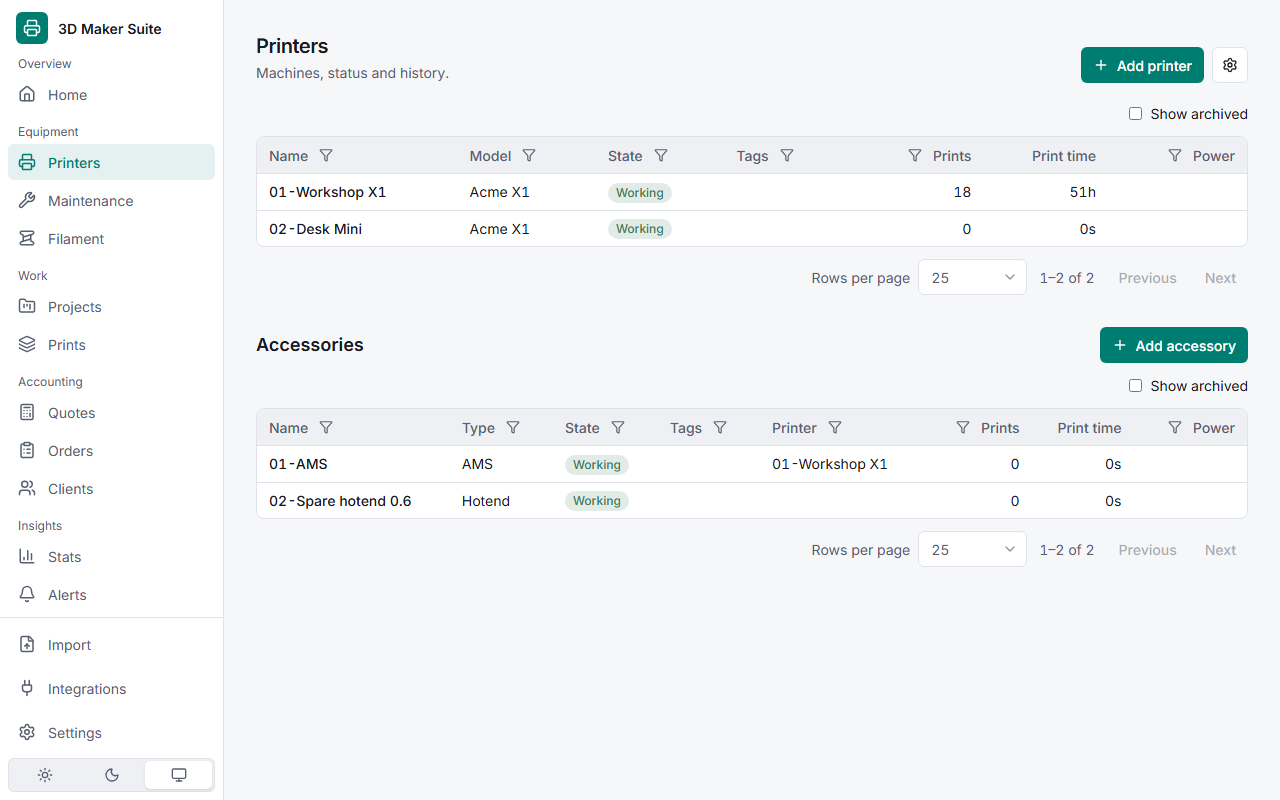
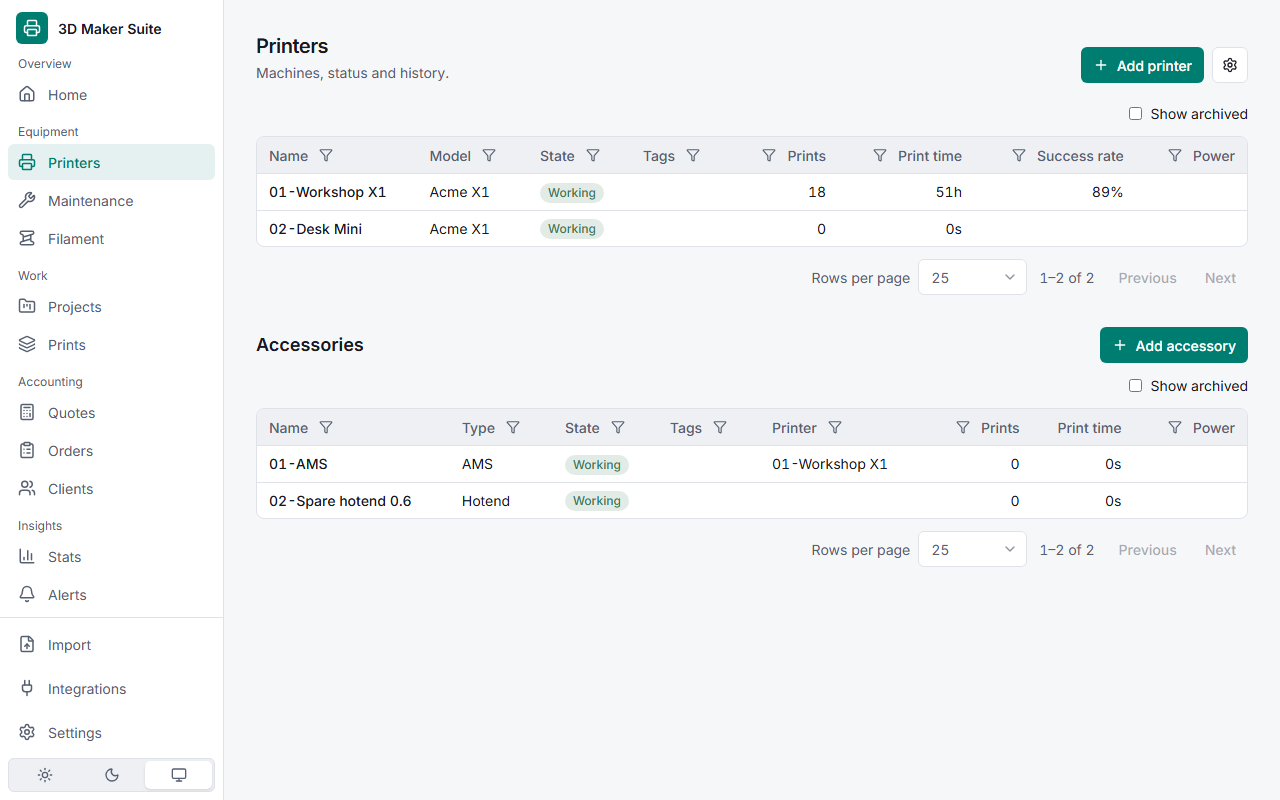
docs(release): 3.0.0-alpha.1 changelog, README, screenshots and version

diff --git a/README.md b/README.md
@@ -10,7 +10,7 @@ A local-first manager for your 3D printing: printers, accessories, maintenance, 
 - **Accessories**: install on a printer with dates, usage, photos, tags, maintenance and cost
 - **Maintenance**: reusable tasks for printers and accessories, due by hours, prints or days
 - **Filament**: brands, materials, profiles, spools with numbers and colour names, remaining grams, low-spool alerts
-- **Projects**: 3MF models with plates, thumbnails, tags, collections, filament colours, files you can upload, move and remove in folders, a chosen 3D preview file, a markdown description (linked `.md` or `.txt` file, with an editor), and slicing per plate (Bambu Studio) for an estimated cost of one complete print
+- **Projects**: 3MF models with plates, thumbnails, tags, collections, filament colours, files you can upload, move and remove in folders, a chosen 3D preview file, an image gallery with a cover, a markdown description (linked `.md` or `.txt` file, with an editor), and slicing per plate (Bambu Studio) for an estimated cost of one complete print
 - **Prints**: history with outcome, filament usage per AMS slot (up to 16 for multicolor), energy, and an estimated duration when only the grams are known
 - **Clients**: people and companies you print for, with unique VAT, mobile and email
 - **Quotes**: numbered quotes from a project or typed in, with notes, client and markup on cost
@@ -67,7 +67,7 @@ By default the app only answers on this PC. To reach it from your phone or anoth
 
 ## Status
 
-Version 2.0.0. English only for now; the code is ready for more languages (see [CONTRIBUTING.md](CONTRIBUTING.md)).
+Version 3.0.0-alpha.1. English only for now; the code is ready for more languages (see [CONTRIBUTING.md](CONTRIBUTING.md)).
 
 ## License
 

diff --git a/CHANGELOG.md b/CHANGELOG.md
@@ -2,6 +2,28 @@
 
 All notable changes are listed here. The format follows [Keep a Changelog](https://keepachangelog.com/en/1.1.0/).
 
+## [3.0.0-alpha.1] - 2026-10-21
+
+### Added
+- Projects: image gallery above the project info; pick images from the project folder, choose the cover, and open them in a viewer
+- Projects: "Files per project" limit in Settings; a scan lists at most that many files per folder
+- Projects: Plates, Prints, Files and the description are collapsible sections
+- Projects: material usage and production cost components, shared by the project and quote pages
+- Printers: success rate column and an hours filter in the printers table
+- Tables: searchable choice filters on every table
+
+### Changed
+- Filament: default order by remaining weight, grams shown as whole grams everywhere
+- Projects: "Set up slicing" is now "Set up print"; the project page layout and labels were reworked, and the folder label shows the project's last two folders
+- Settings: config tables sort by brand and model; accessories can be exported; "Track usage" is hidden when there are no prints
+- Quote page shows which printer its cost is for
+
+### Fixed
+- Folder scan does one pass per request, and the watcher scans only the folder that changed
+- Scan drops gallery picks whose files were removed outside the app
+- Folder labels use the path's own separator and run from the project root down
+- Low-spool tag sits left of the remaining weight
+
 ## [2.0.0] - 2026-10-21
 
 ### Added

diff --git a/docs/configuration.md b/docs/configuration.md
@@ -26,7 +26,7 @@ Then open `http://<your-PC-address>:4300` from the other device and enter the pa
 
 ## In-app settings
 
-The Settings page covers general options, appearance, costs (currency, energy, labour, markup, and the printer and accessory defaults), printers, accessories, prints, projects (the folders the app watches), integrations, alerts, backups, language and network. Each module has its own config page, opened from the gear button on that module.
+The Settings page covers general options, appearance, costs (currency, energy, labour, markup, and the printer and accessory defaults), printers, accessories, prints, projects (the folders the app watches and the files-per-project limit), integrations, alerts, backups, language and network. Each module has its own config page, opened from the gear button on that module.
 
 - **Path picker** (slicer executable, slicer config folders, project roots): browses the folders on the machine running the server and lists names only. It never opens or reads a file while you browse. It is not limited to the project roots, because that is how you choose them. Only use it on a server you trust, and set `APP_PASSWORD` before exposing the app beyond this PC.
 

diff --git a/PLAN.md b/PLAN.md
@@ -134,7 +134,7 @@ Back up the DB before editing schema.ts.
 Do Step 10 of PLAN.md. Screenshot at the 3 viewports when done.
 ```
 
-### [ ] Step 11 - Docs, push & v3.0.0-alpha.1
+### [x] Step 11 - Docs, push & v3.0.0-alpha.1
 **Model:** Haiku · **Effort:** Low
 **Scope:** README/docs for Steps 1-10, CHANGELOG, version `3.0.0-alpha.1`. Refresh `pnpm screenshots` (project page changed). Commit, push `main`, create and push tag `v3.0.0-alpha.1`. The release workflow publishes it as a pre-release; check that the run succeeds (`gh run watch`) and the release exists (`gh release view v3.0.0-alpha.1`).
 **Done when:** `main` and the tag are pushed; the workflow is green; the pre-release exists; docs match the app.
